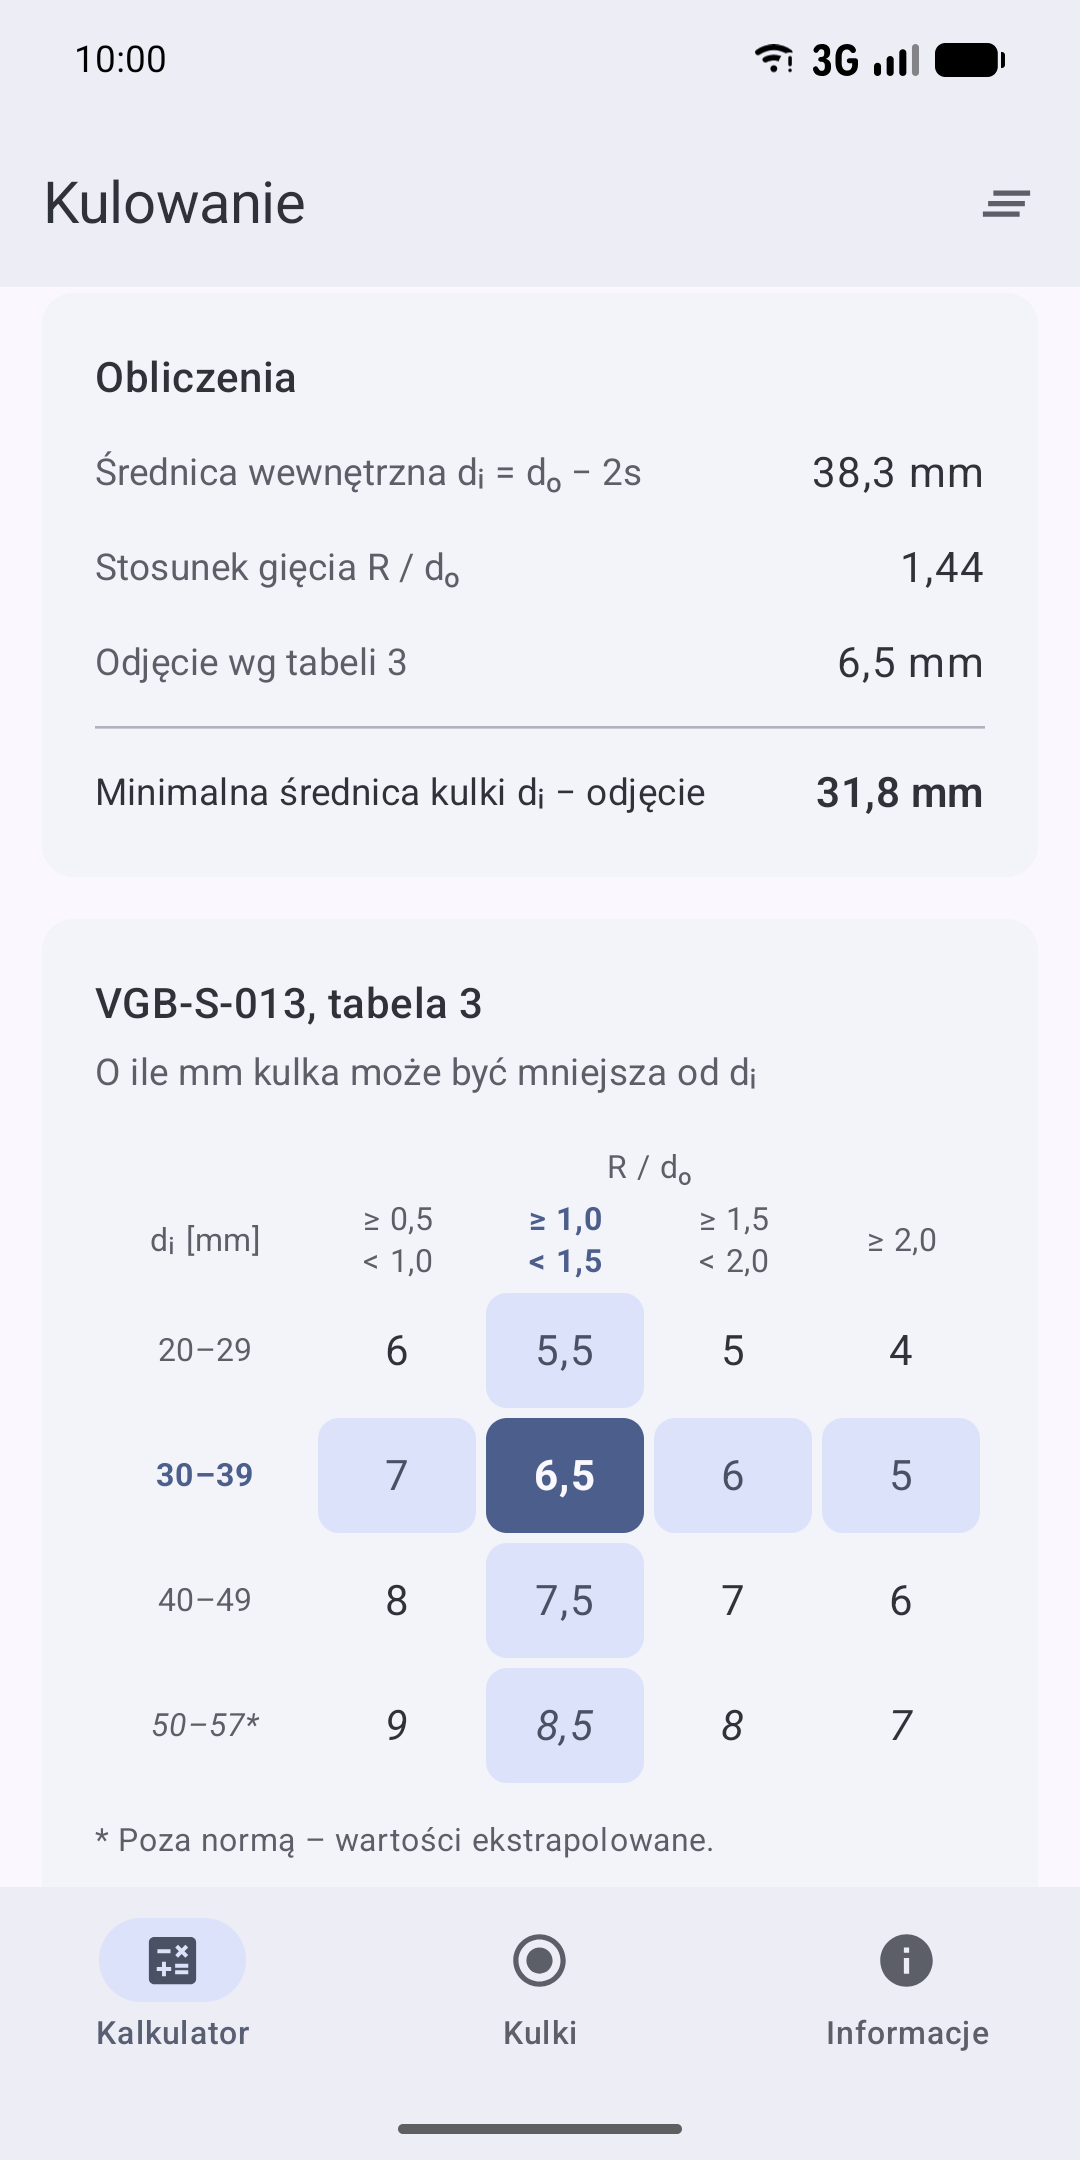
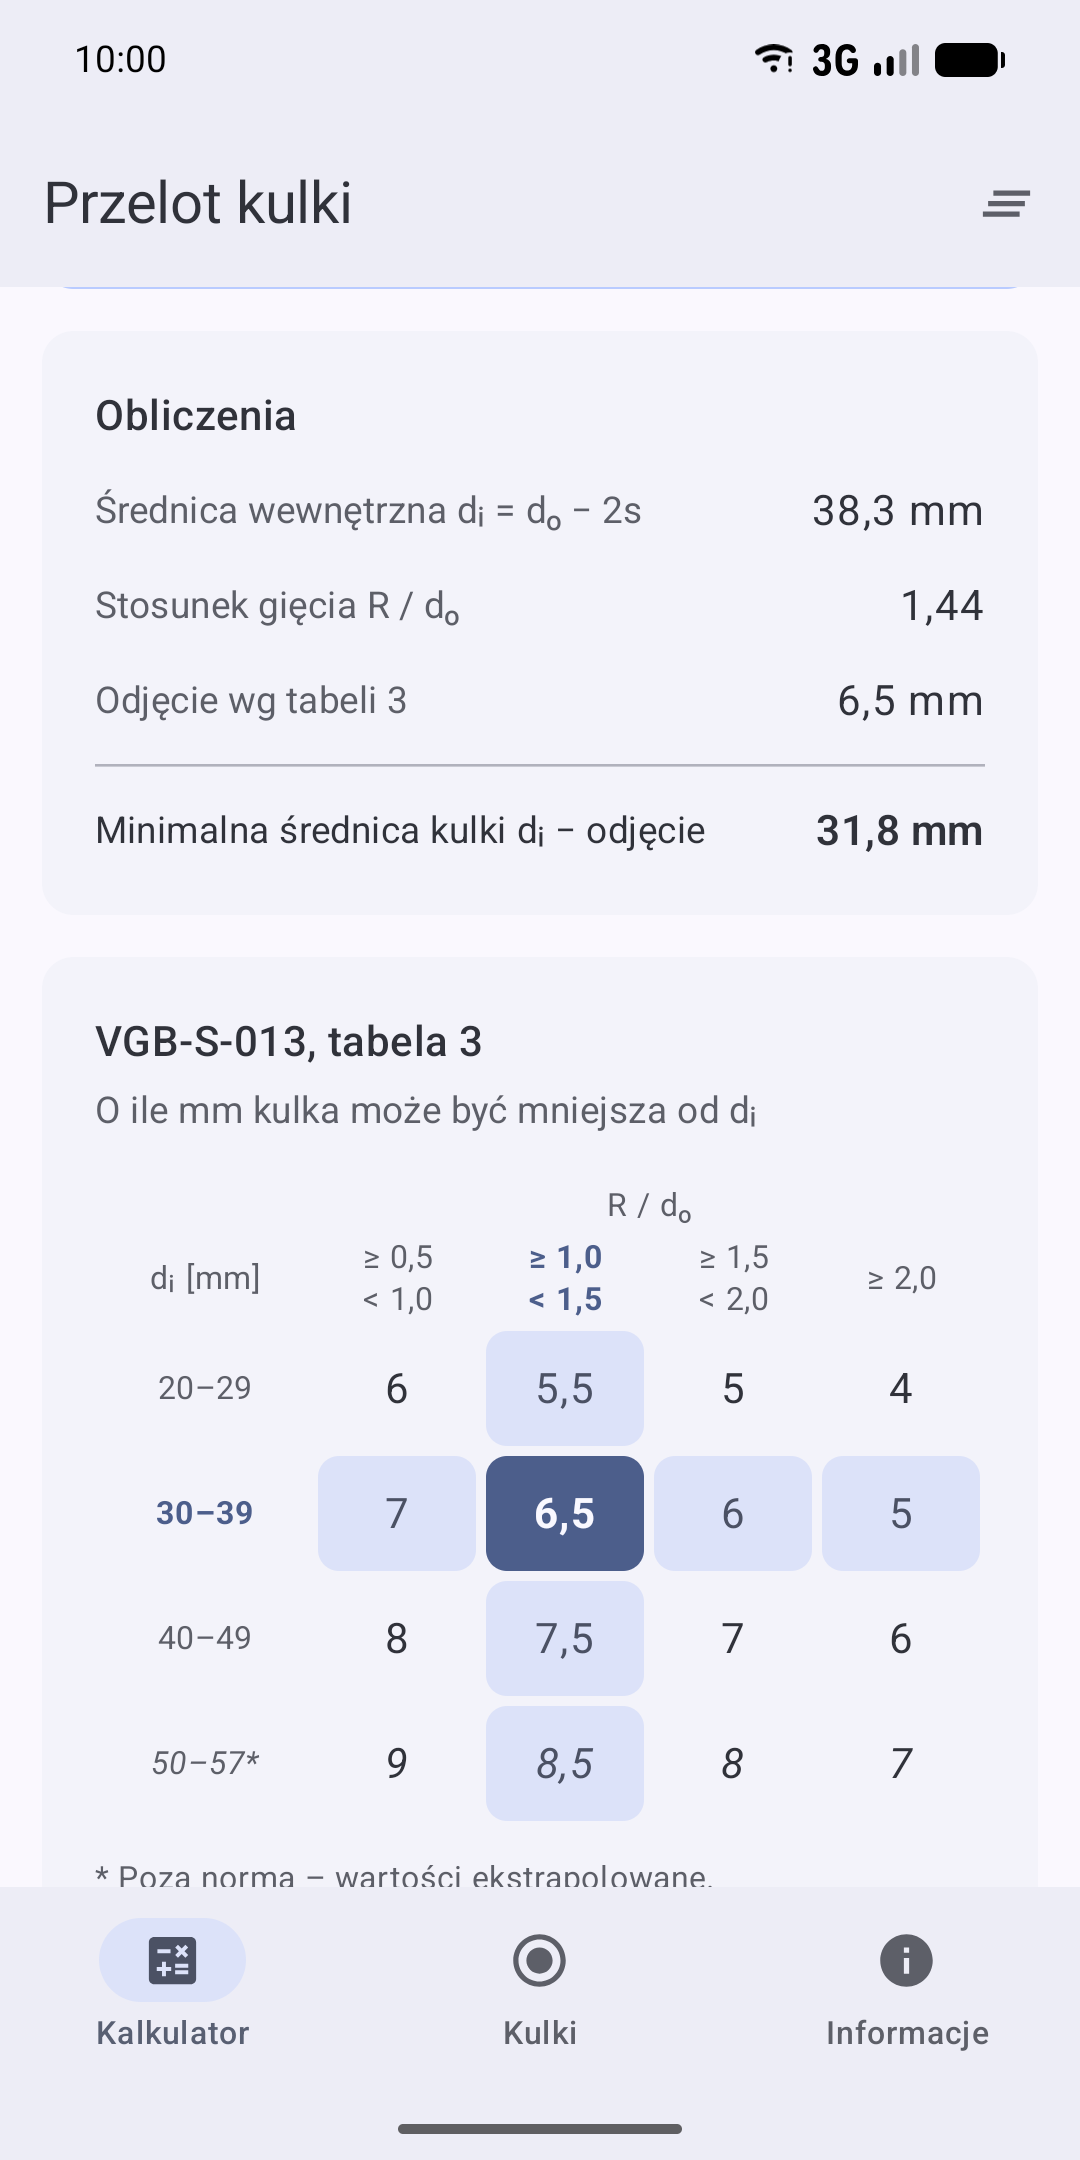
Rename Polish app name to Przelot kulki

diff --git a/app/src/test/kotlin/pl/stalmasinski/ballpassage/ui/BallPassageAppTest.kt b/app/src/test/kotlin/pl/stalmasinski/ballpassage/ui/BallPassageAppTest.kt
@@ -241,7 +241,7 @@ class BallPassageAppTest {
         composeRule.onNodeWithText("Minimalna średnica kulki").assertIsDisplayed()
         composeRule.onNodeWithTag(TestTags.BALL_DIAMETER).assertTextEquals("31,8 mm")
         composeRule.onNodeWithText("Kulki").assertIsDisplayed()
-        composeRule.onNodeWithText("Kulowanie").assertIsDisplayed()
+        composeRule.onNodeWithText("Przelot kulki").assertIsDisplayed()
     }
 
     @Test

diff --git a/README.md b/README.md
@@ -25,7 +25,7 @@ Android app that calculates the steel ball diameter for the **ball passage test*
 - **Share.** Sends a plain-text summary for protocols and messages.
 - **Info.** Standard, method, disclaimer, privacy and app version.
 - **Languages.** English, Polish and German. The app name is localized as well: *Ball Passage
-  Test*, *Kulowanie* (PL) and *Kugeldurchlauf* (DE). Library resources are limited to these
+  Test*, *Przelot kulki* (PL) and *Kugeldurchlauf* (DE). Library resources are limited to these
   three languages, so the UI is never mixed.
 
 ## Calculation
